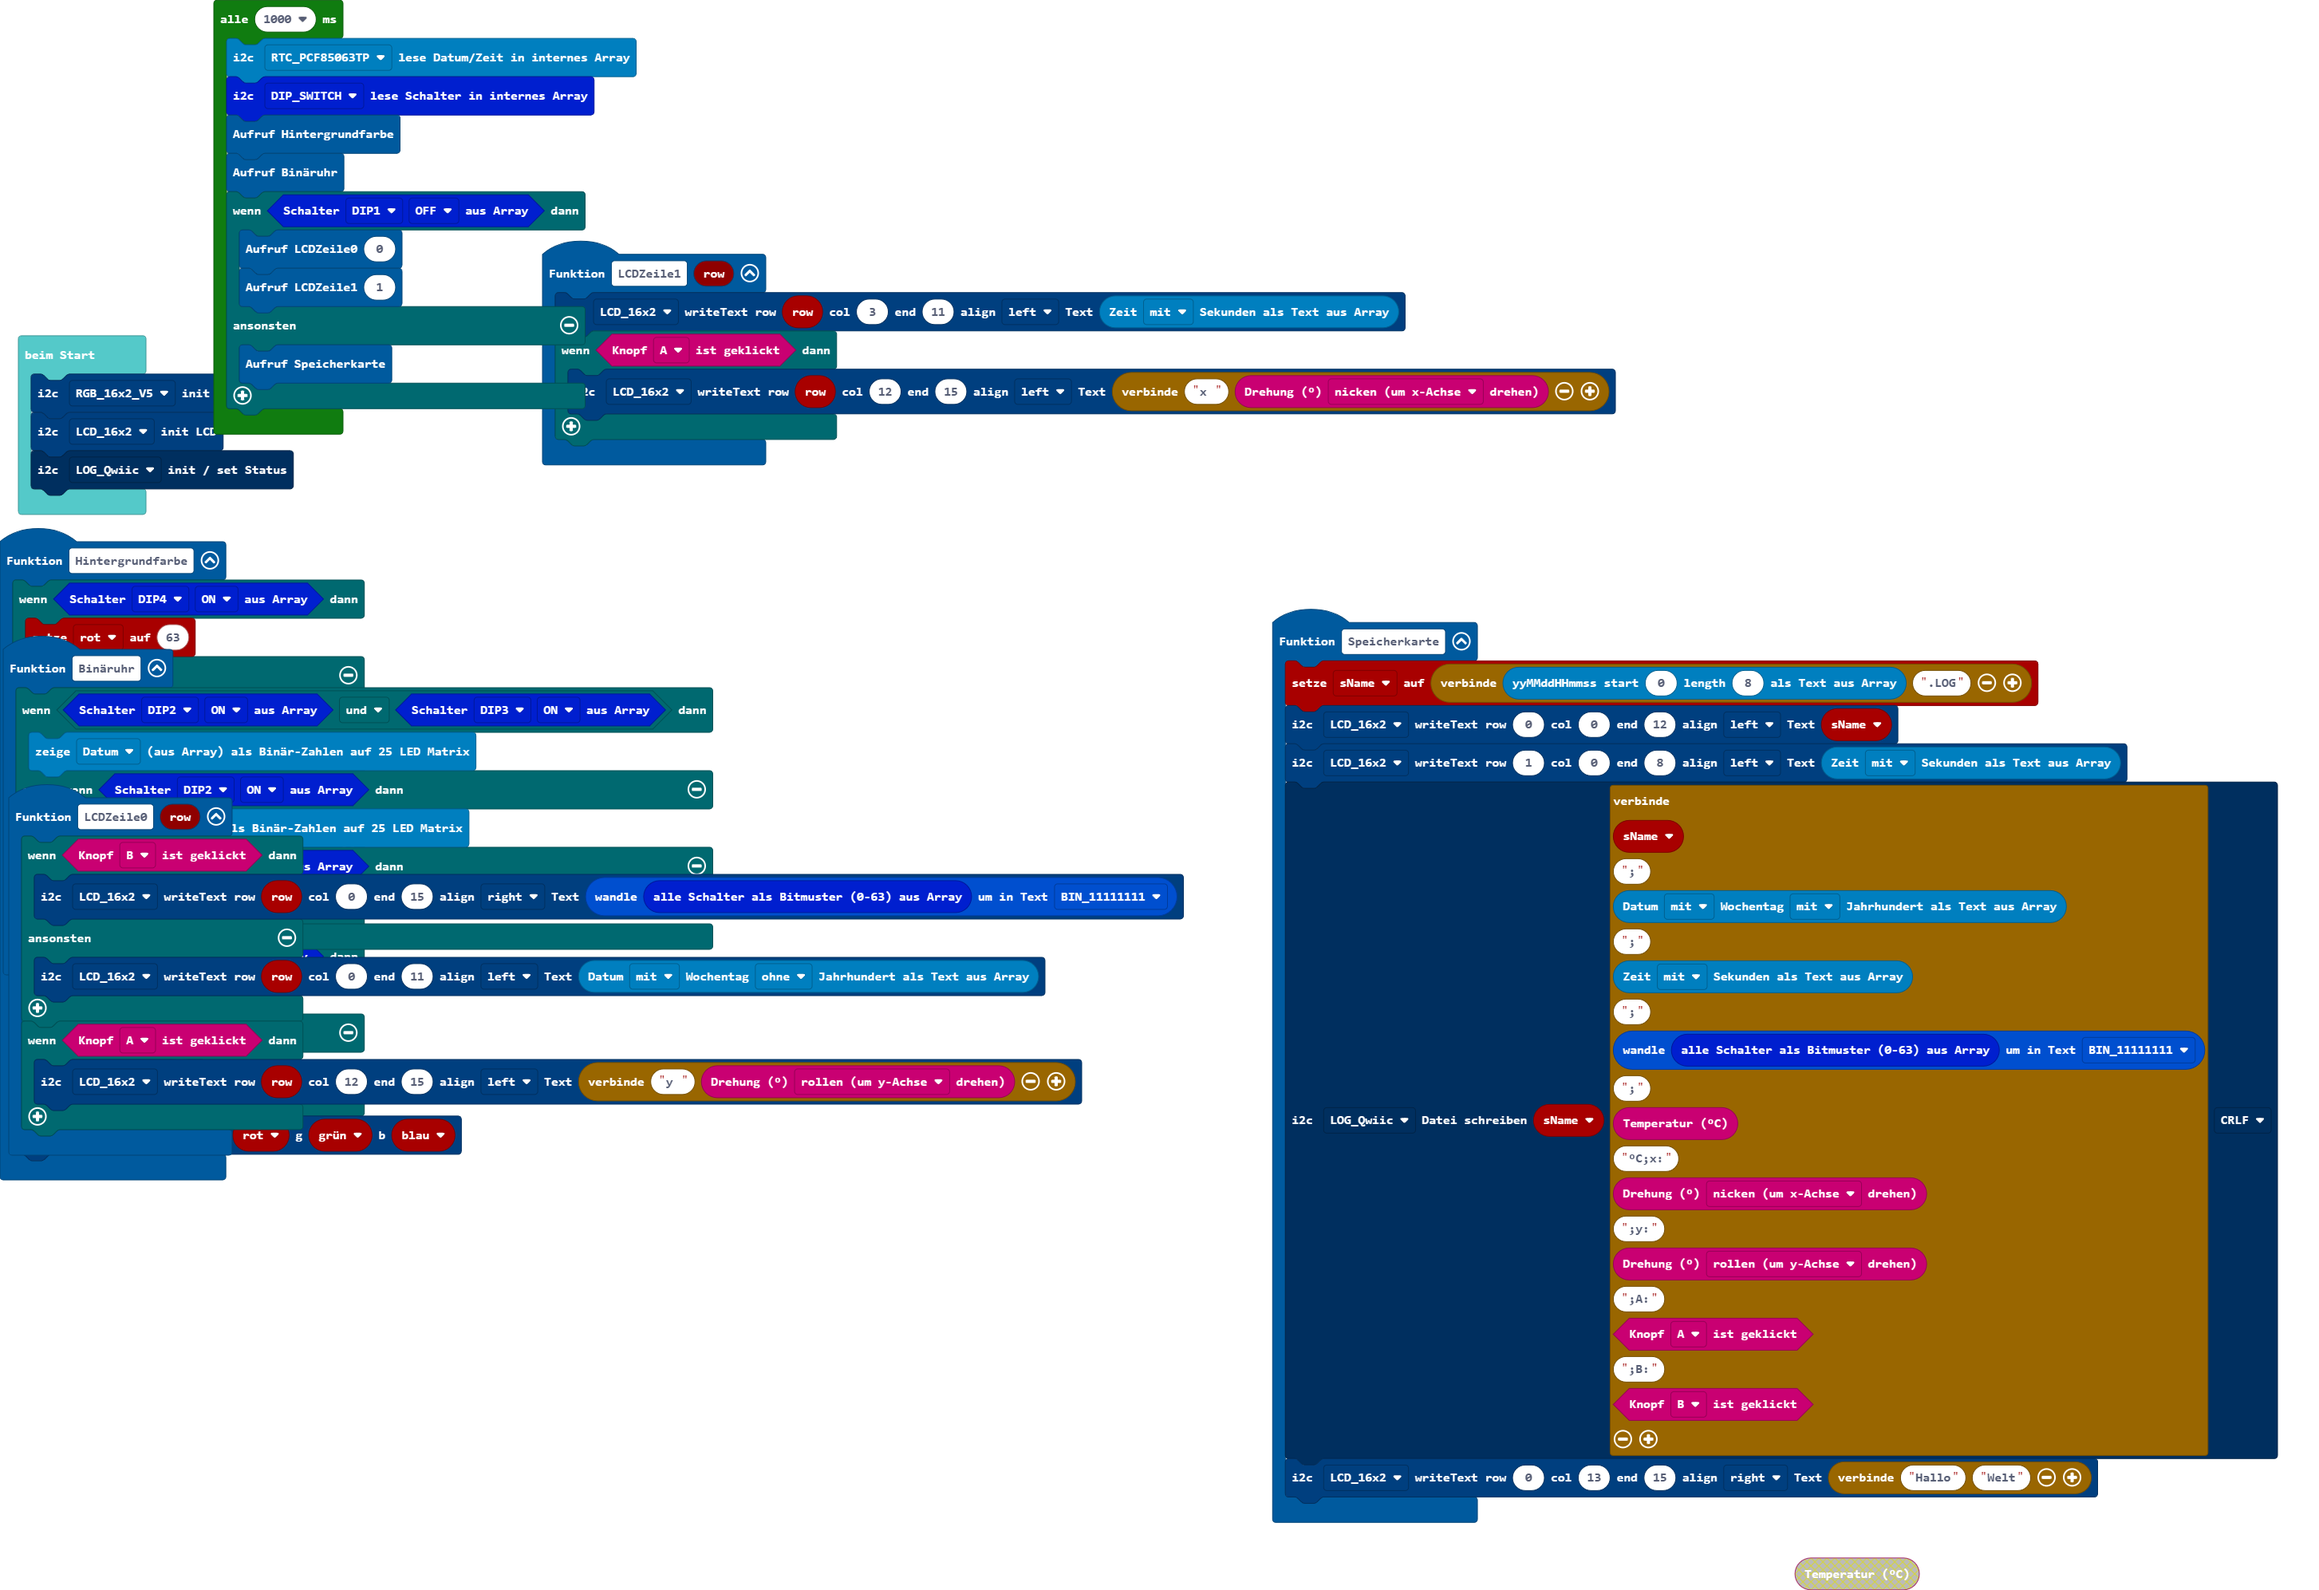
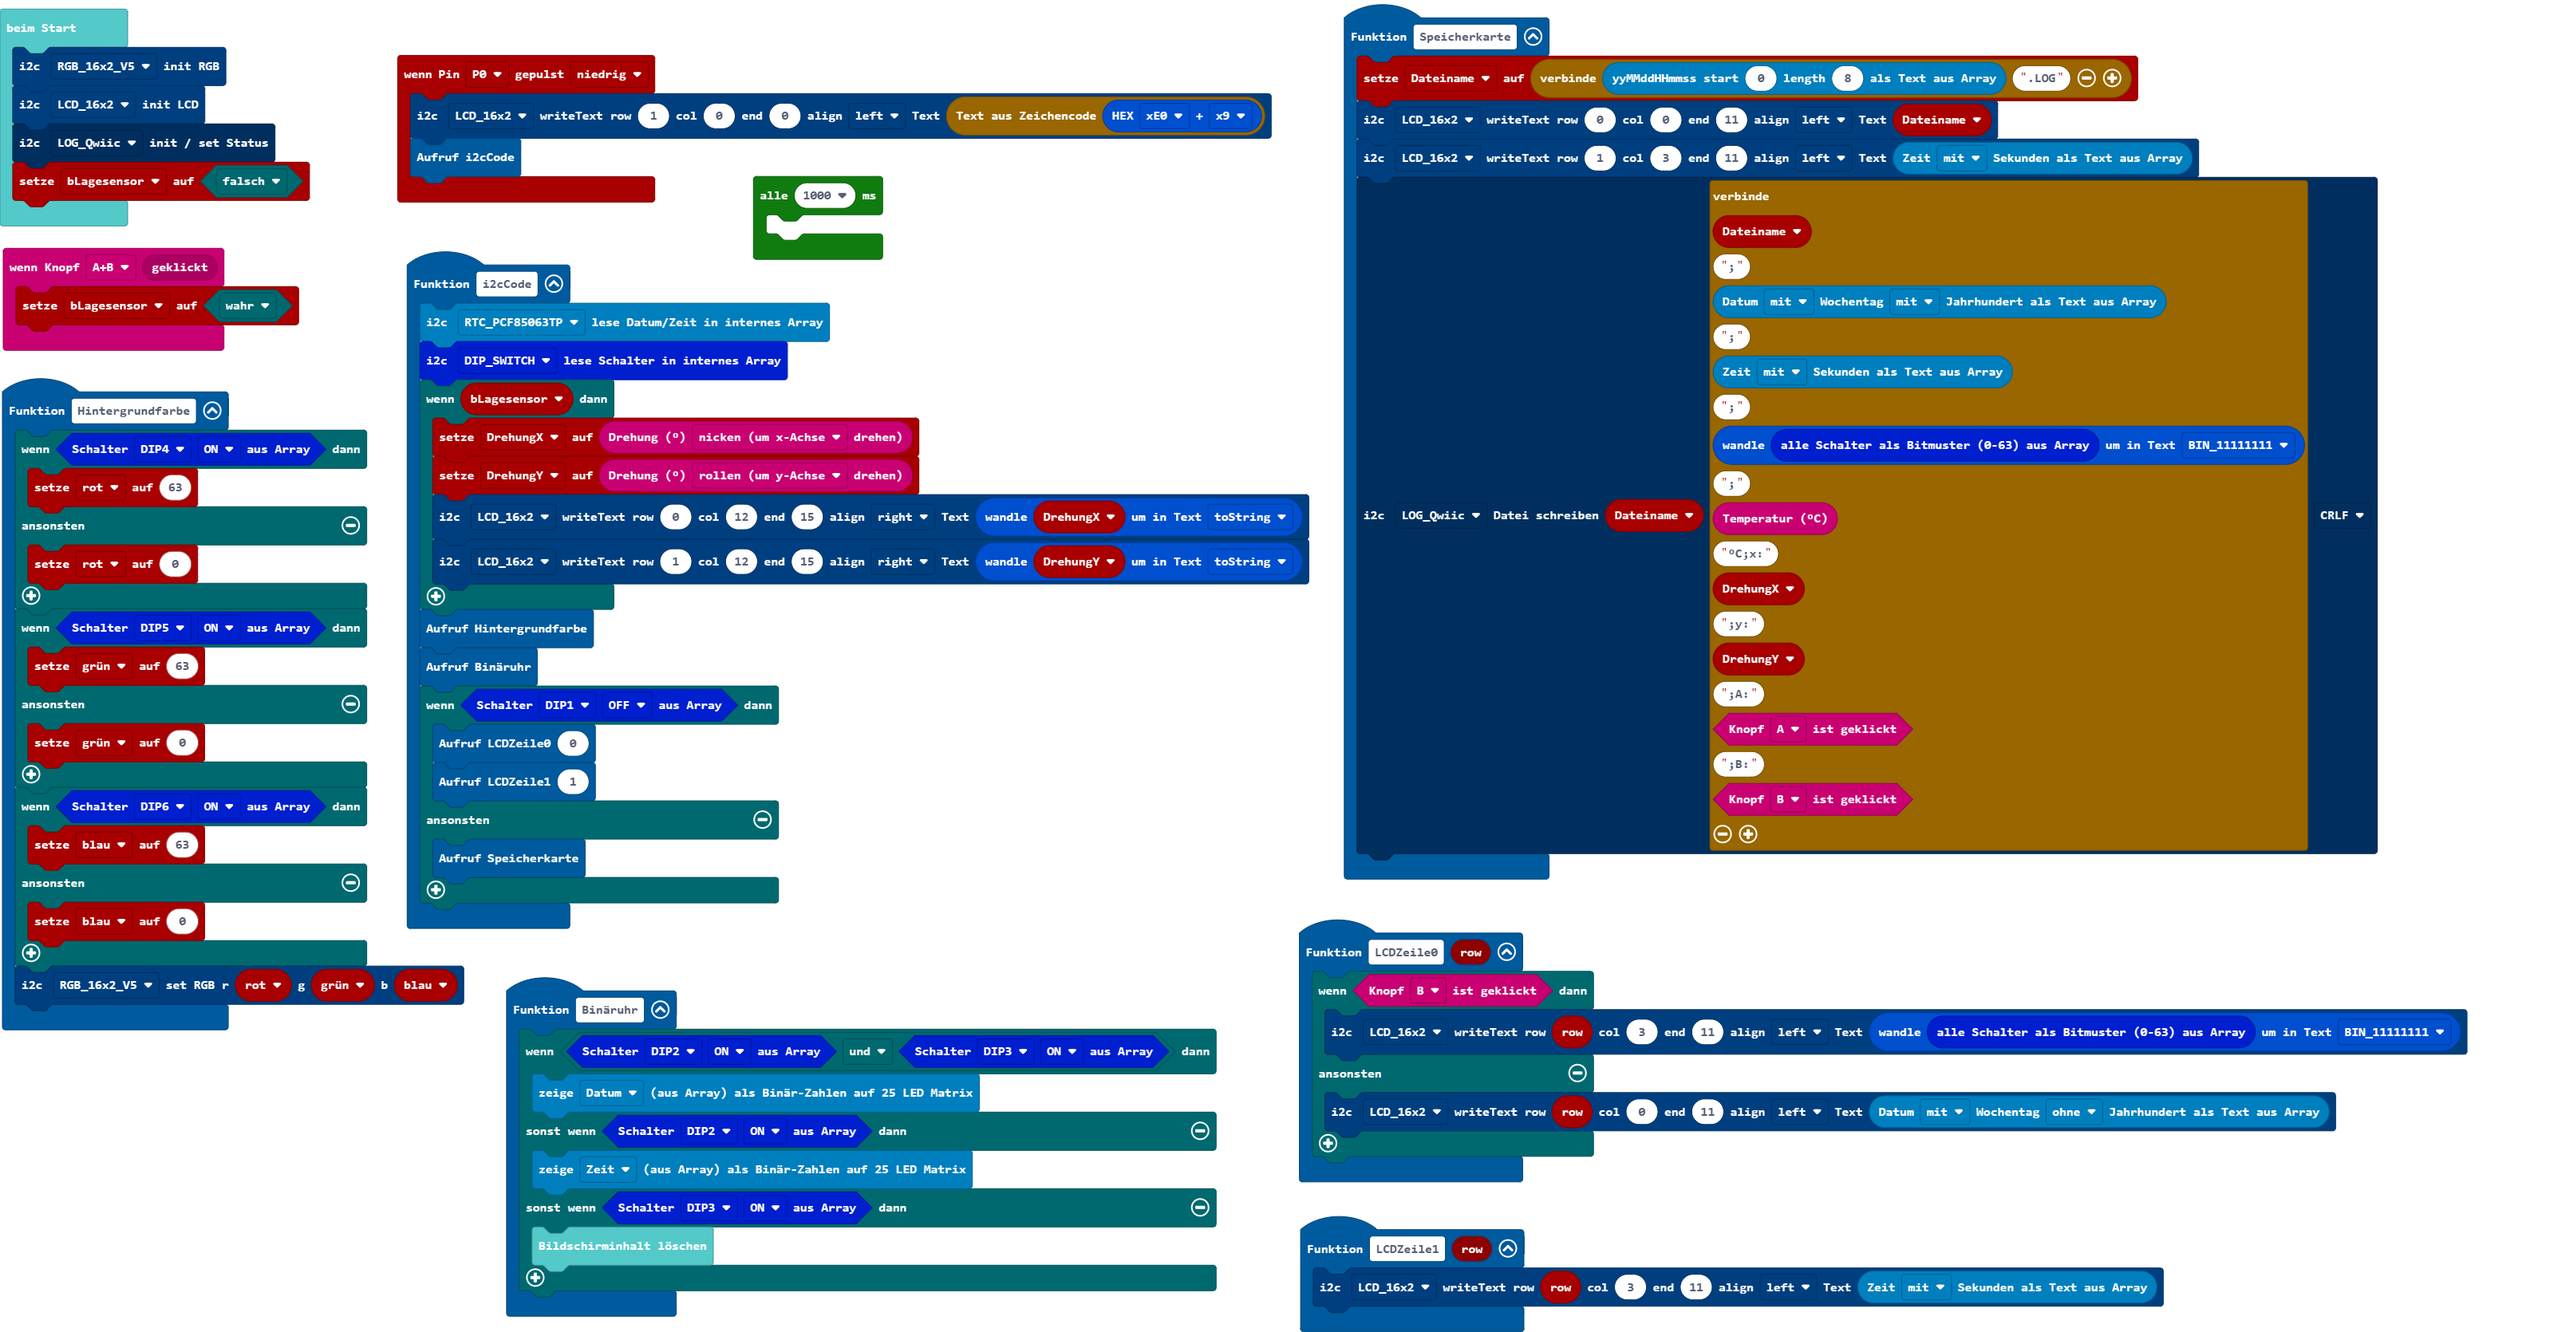
Demoprogramm 4 i2c Module, Lagesensor, Hardware-Sekundentakt an PIN0

diff --git a/main.ts b/main.ts
@@ -1,11 +1,8 @@
 function LCDZeile0 (row: number) {
     if (input.buttonIsPressed(Button.B)) {
-        lcd16x2rgb.writeText(lcd16x2rgb.eADDR_LCD.LCD_16x2, row, 0, 15, lcd16x2rgb.eAlign.right, bit.formatNumber(dipswitch.getBIN(), bit.eLength.BIN_11111111))
+        lcd16x2rgb.writeText(lcd16x2rgb.eADDR_LCD.LCD_16x2, row, 3, 11, lcd16x2rgb.eAlign.left, bit.formatNumber(dipswitch.getBIN(), bit.eLength.BIN_11111111))
     } else {
         lcd16x2rgb.writeText(lcd16x2rgb.eADDR_LCD.LCD_16x2, row, 0, 11, lcd16x2rgb.eAlign.left, rtcpcf85063tp.getDate(rtcpcf85063tp.ePart.mit, rtcpcf85063tp.ePart.ohne))
-    }
-    if (input.buttonIsPressed(Button.A)) {
-        lcd16x2rgb.writeText(lcd16x2rgb.eADDR_LCD.LCD_16x2, row, 12, 15, lcd16x2rgb.eAlign.left, "y " + input.rotation(Rotation.Roll))
     }
 }
 function Hintergrundfarbe () {
@@ -27,17 +24,16 @@ function Hintergrundfarbe () {
     lcd16x2rgb.setRGB(lcd16x2rgb.eADDR_RGB.RGB_16x2_V5, rot, grün, blau)
 }
 function Speicherkarte () {
-    sName = "" + rtcpcf85063tp.getyyMMddHHmmss(0, 8) + ".LOG"
-    lcd16x2rgb.writeText(lcd16x2rgb.eADDR_LCD.LCD_16x2, 0, 0, 12, lcd16x2rgb.eAlign.left, sName)
-    lcd16x2rgb.writeText(lcd16x2rgb.eADDR_LCD.LCD_16x2, 1, 0, 8, lcd16x2rgb.eAlign.left, rtcpcf85063tp.getTime(rtcpcf85063tp.ePart.mit))
-    qwiicopenlog.writeFile(qwiicopenlog.eADDR.LOG_Qwiic, sName, "" + sName + ";" + rtcpcf85063tp.getDate(rtcpcf85063tp.ePart.mit, rtcpcf85063tp.ePart.mit) + ";" + rtcpcf85063tp.getTime(rtcpcf85063tp.ePart.mit) + ";" + bit.formatNumber(dipswitch.getBIN(), bit.eLength.BIN_11111111) + ";" + input.temperature() + "°C;x:" + input.rotation(Rotation.Pitch) + ";y:" + input.rotation(Rotation.Roll) + ";A:" + input.buttonIsPressed(Button.A) + ";B:" + input.buttonIsPressed(Button.B), qwiicopenlog.eCRLF.CRLF)
-    lcd16x2rgb.writeText(lcd16x2rgb.eADDR_LCD.LCD_16x2, 0, 13, 15, lcd16x2rgb.eAlign.right, "Hallo" + "Welt")
+    Dateiname = "" + rtcpcf85063tp.getyyMMddHHmmss(0, 8) + ".LOG"
+    lcd16x2rgb.writeText(lcd16x2rgb.eADDR_LCD.LCD_16x2, 0, 0, 11, lcd16x2rgb.eAlign.left, Dateiname)
+    lcd16x2rgb.writeText(lcd16x2rgb.eADDR_LCD.LCD_16x2, 1, 3, 11, lcd16x2rgb.eAlign.left, rtcpcf85063tp.getTime(rtcpcf85063tp.ePart.mit))
+    qwiicopenlog.writeFile(qwiicopenlog.eADDR.LOG_Qwiic, Dateiname, "" + Dateiname + ";" + rtcpcf85063tp.getDate(rtcpcf85063tp.ePart.mit, rtcpcf85063tp.ePart.mit) + ";" + rtcpcf85063tp.getTime(rtcpcf85063tp.ePart.mit) + ";" + bit.formatNumber(dipswitch.getBIN(), bit.eLength.BIN_11111111) + ";" + input.temperature() + "°C;x:" + DrehungX + ";y:" + DrehungY + ";A:" + input.buttonIsPressed(Button.A) + ";B:" + input.buttonIsPressed(Button.B), qwiicopenlog.eCRLF.CRLF)
 }
+input.onButtonEvent(Button.AB, input.buttonEventClick(), function () {
+    bLagesensor = true
+})
 function LCDZeile1 (row: number) {
     lcd16x2rgb.writeText(lcd16x2rgb.eADDR_LCD.LCD_16x2, row, 3, 11, lcd16x2rgb.eAlign.left, rtcpcf85063tp.getTime(rtcpcf85063tp.ePart.mit))
-    if (input.buttonIsPressed(Button.A)) {
-        lcd16x2rgb.writeText(lcd16x2rgb.eADDR_LCD.LCD_16x2, row, 12, 15, lcd16x2rgb.eAlign.left, "x " + input.rotation(Rotation.Pitch))
-    }
 }
 function Binäruhr () {
     if (dipswitch.getON(dipswitch.eSwitch.DIP2, dipswitch.eONOFF.ON) && dipswitch.getON(dipswitch.eSwitch.DIP3, dipswitch.eONOFF.ON)) {
@@ -48,16 +44,19 @@ function Binäruhr () {
         basic.clearScreen()
     }
 }
-let sName = ""
-let blau = 0
-let grün = 0
-let rot = 0
-lcd16x2rgb.initRGB(lcd16x2rgb.eADDR_RGB.RGB_16x2_V5)
-lcd16x2rgb.initLCD(lcd16x2rgb.eADDR_LCD.LCD_16x2)
-qwiicopenlog.checkStatusRegister(qwiicopenlog.eADDR.LOG_Qwiic)
-loops.everyInterval(1000, function () {
+pins.onPulsed(DigitalPin.P0, PulseValue.Low, function () {
+    lcd16x2rgb.writeText(lcd16x2rgb.eADDR_LCD.LCD_16x2, 1, 0, 0, lcd16x2rgb.eAlign.left, String.fromCharCode(bit.hex(bit.H4.xE0, bit.H0.x9)))
+    i2cCode()
+})
+function i2cCode () {
     rtcpcf85063tp.readDateTime(rtcpcf85063tp.eADDR.RTC_PCF85063TP)
     dipswitch.readSwitch(dipswitch.eADDR.DIP_SWITCH)
+    if (bLagesensor) {
+        DrehungX = input.rotation(Rotation.Pitch)
+        DrehungY = input.rotation(Rotation.Roll)
+        lcd16x2rgb.writeText(lcd16x2rgb.eADDR_LCD.LCD_16x2, 0, 12, 15, lcd16x2rgb.eAlign.right, bit.formatNumber(DrehungX, bit.eLength.toString))
+        lcd16x2rgb.writeText(lcd16x2rgb.eADDR_LCD.LCD_16x2, 1, 12, 15, lcd16x2rgb.eAlign.right, bit.formatNumber(DrehungY, bit.eLength.toString))
+    }
     Hintergrundfarbe()
     Binäruhr()
     if (dipswitch.getON(dipswitch.eSwitch.DIP1, dipswitch.eONOFF.OFF)) {
@@ -66,4 +65,18 @@ loops.everyInterval(1000, function () {
     } else {
         Speicherkarte()
     }
+}
+let DrehungY = 0
+let DrehungX = 0
+let Dateiname = ""
+let blau = 0
+let grün = 0
+let rot = 0
+let bLagesensor = false
+lcd16x2rgb.initRGB(lcd16x2rgb.eADDR_RGB.RGB_16x2_V5)
+lcd16x2rgb.initLCD(lcd16x2rgb.eADDR_LCD.LCD_16x2)
+qwiicopenlog.checkStatusRegister(qwiicopenlog.eADDR.LOG_Qwiic)
+bLagesensor = false
+loops.everyInterval(1000, function () {
+	
 })
